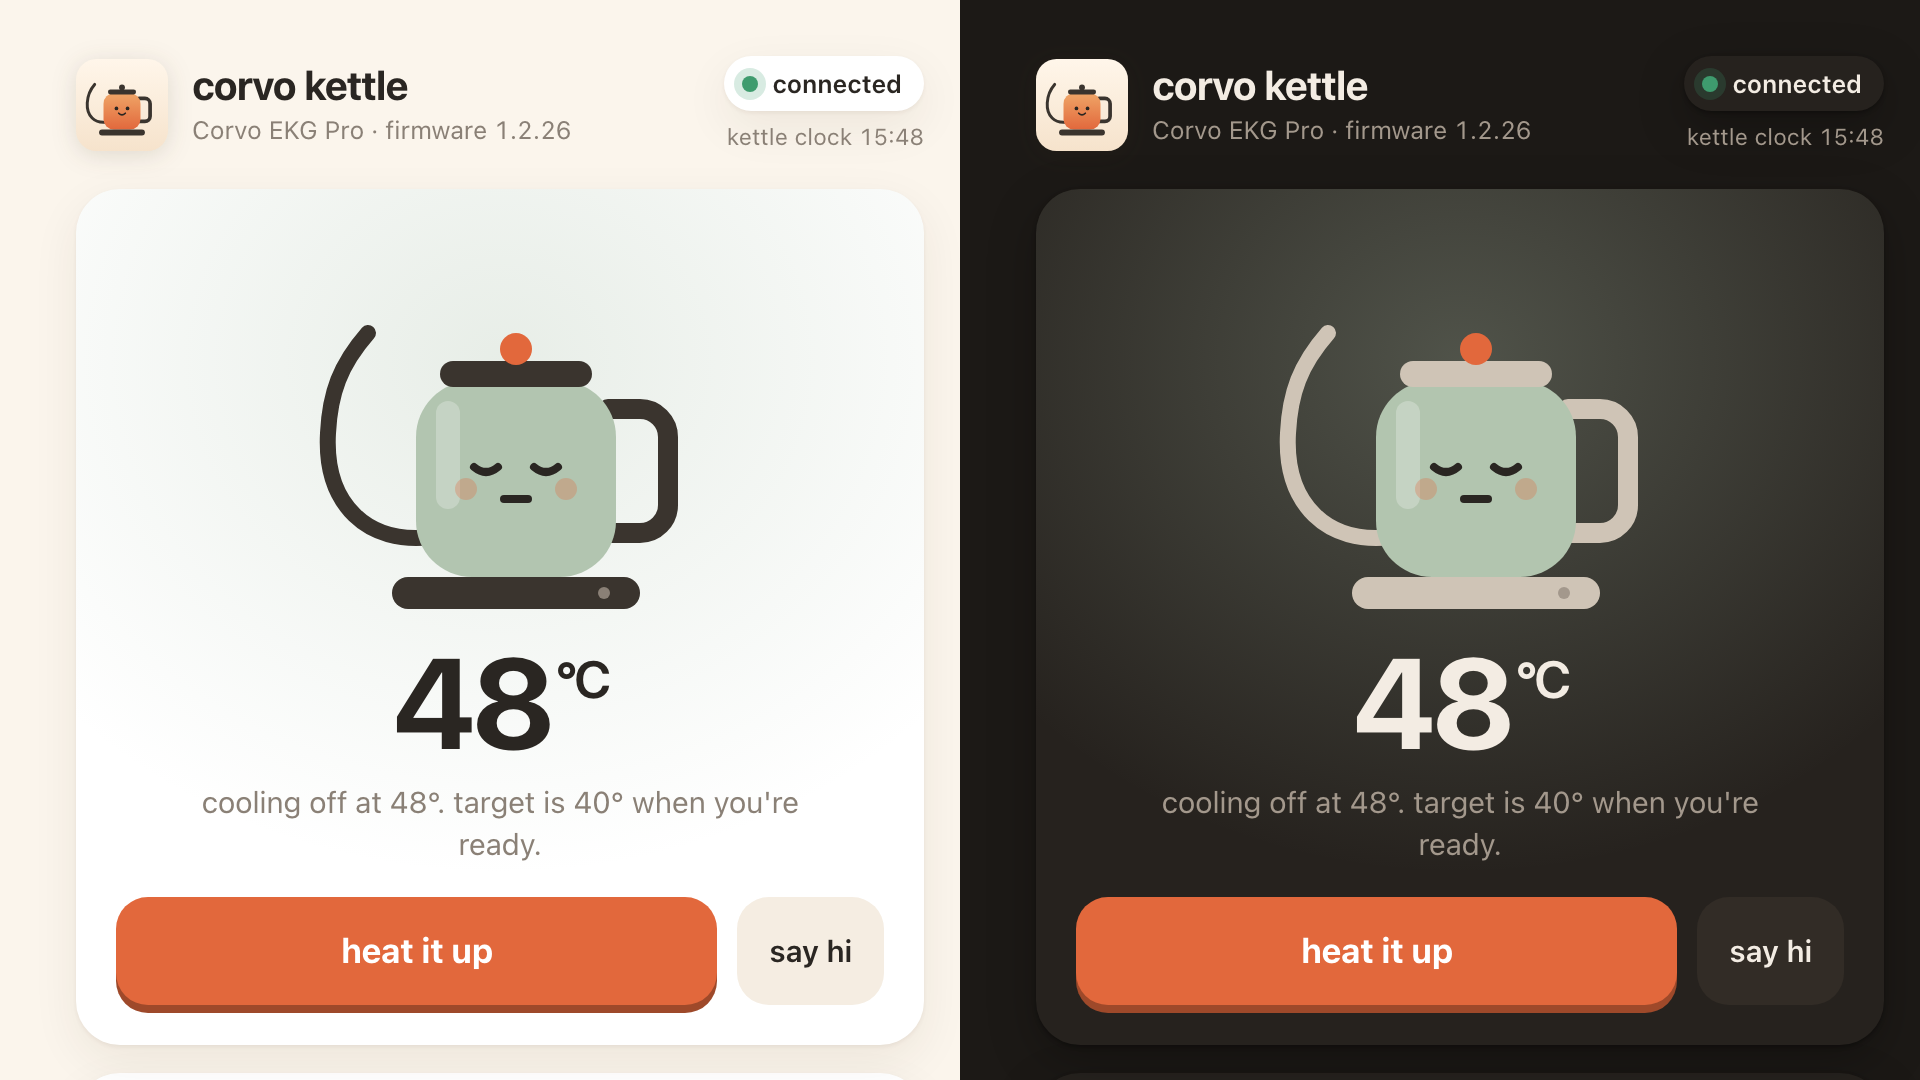
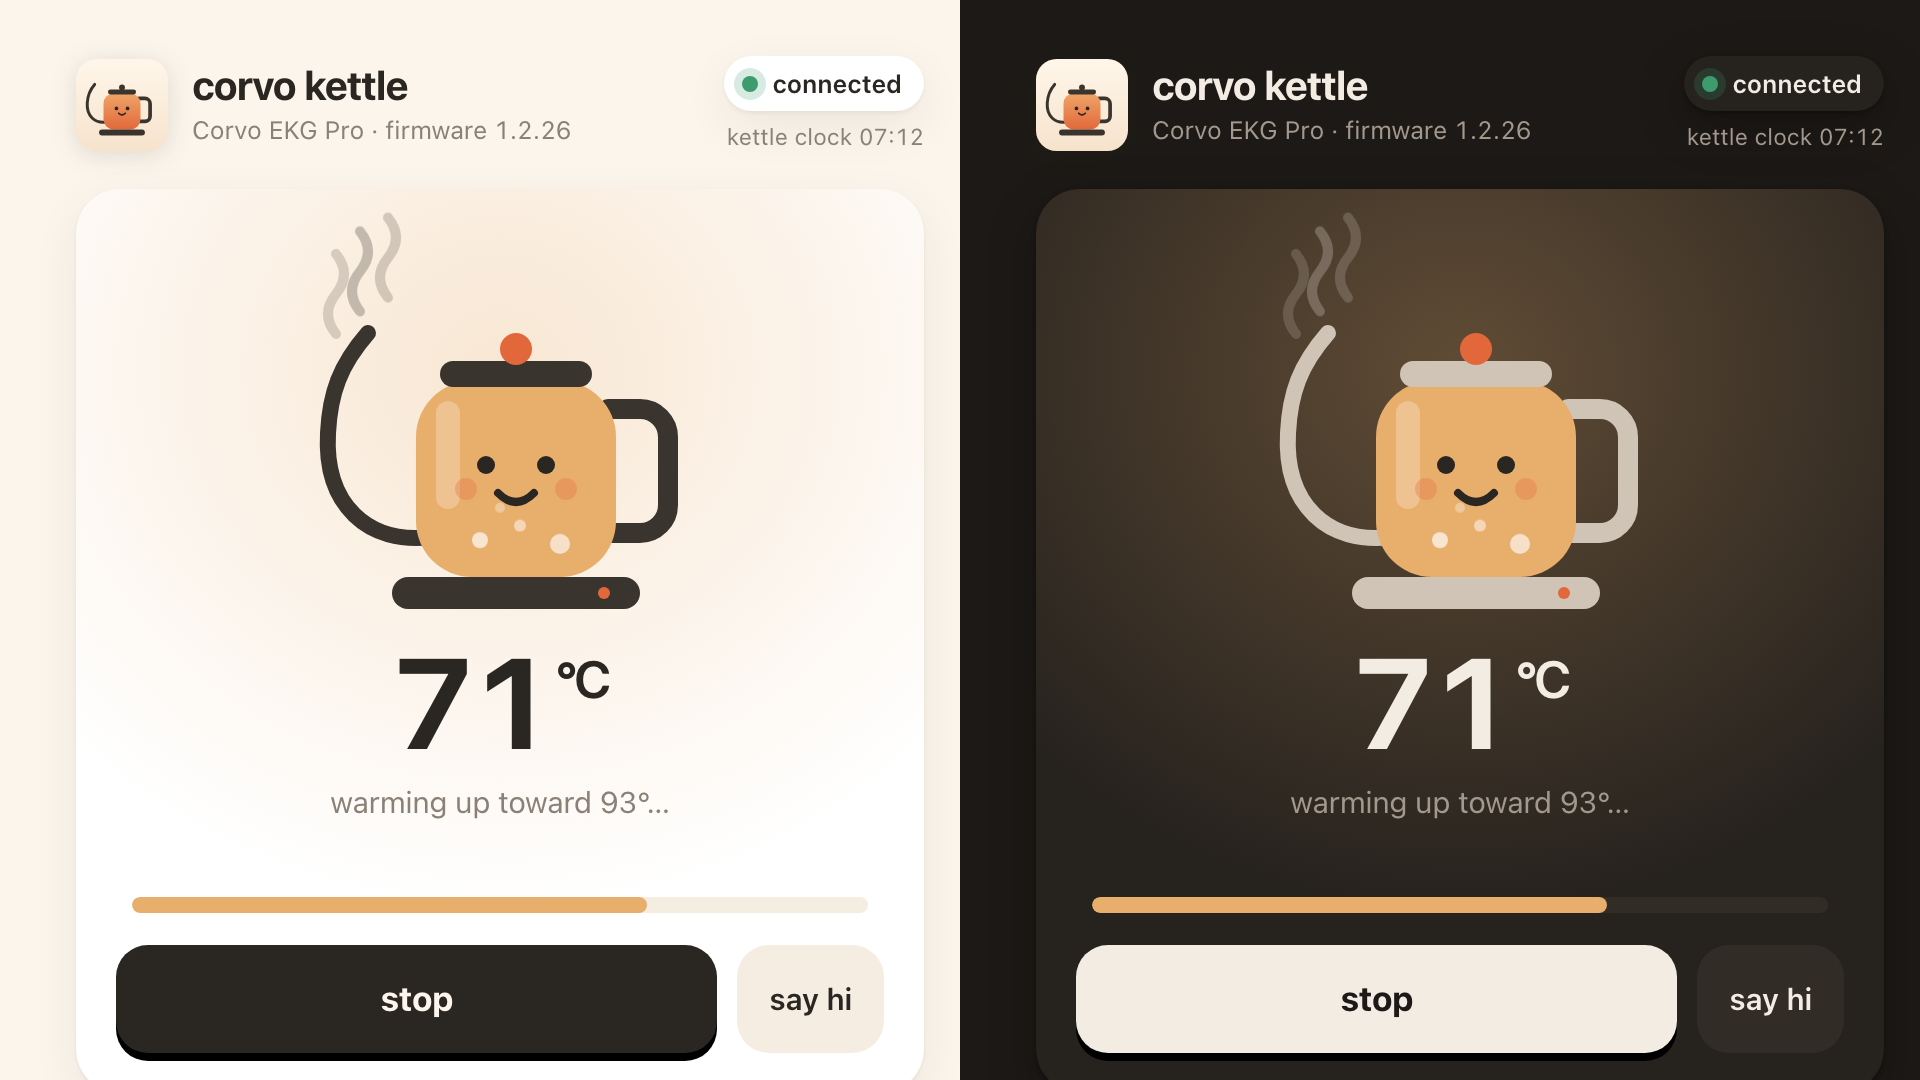
readme: live browser tab feature, happy heating hero
Claude-Session: https://claude.ai/code/session_01LtLhQ92QZQfhYAvEqEi3q8

diff --git a/README.md b/README.md
@@ -21,8 +21,11 @@ simple systems that breathe. this is one.
 - **a morning schedule**: heat to 96° at 07:00, every day or just once.
 - **every setting from the kettle's own menu**: keep-warm time, pre-boil, units, clock face, clock sync, chime volume, language, altitude.
 - **model and firmware**, read straight from the kettle.
+- **a live browser tab**: the tab icon shows the water temperature and the title follows along (`71° → 93° · corvo kettle`). pin the tab and you've got a tiny thermometer next to your work.
 - **a menu-bar control** (via [SwiftBar](https://github.com/swiftbar/SwiftBar)) with live temperature.
 - **a terminal command**: `kettle on`, `kettle set 93`, `kettle schedule 07:00 96 daily`, `kettle wait`.
+
+<p align="center"><img src="docs/tabs.png" width="640" alt="browser tabs showing the live water temperature"></p>
 
 <p align="center"><img src="docs/panel-full.png" width="360" alt="the full control panel"></p>
 
